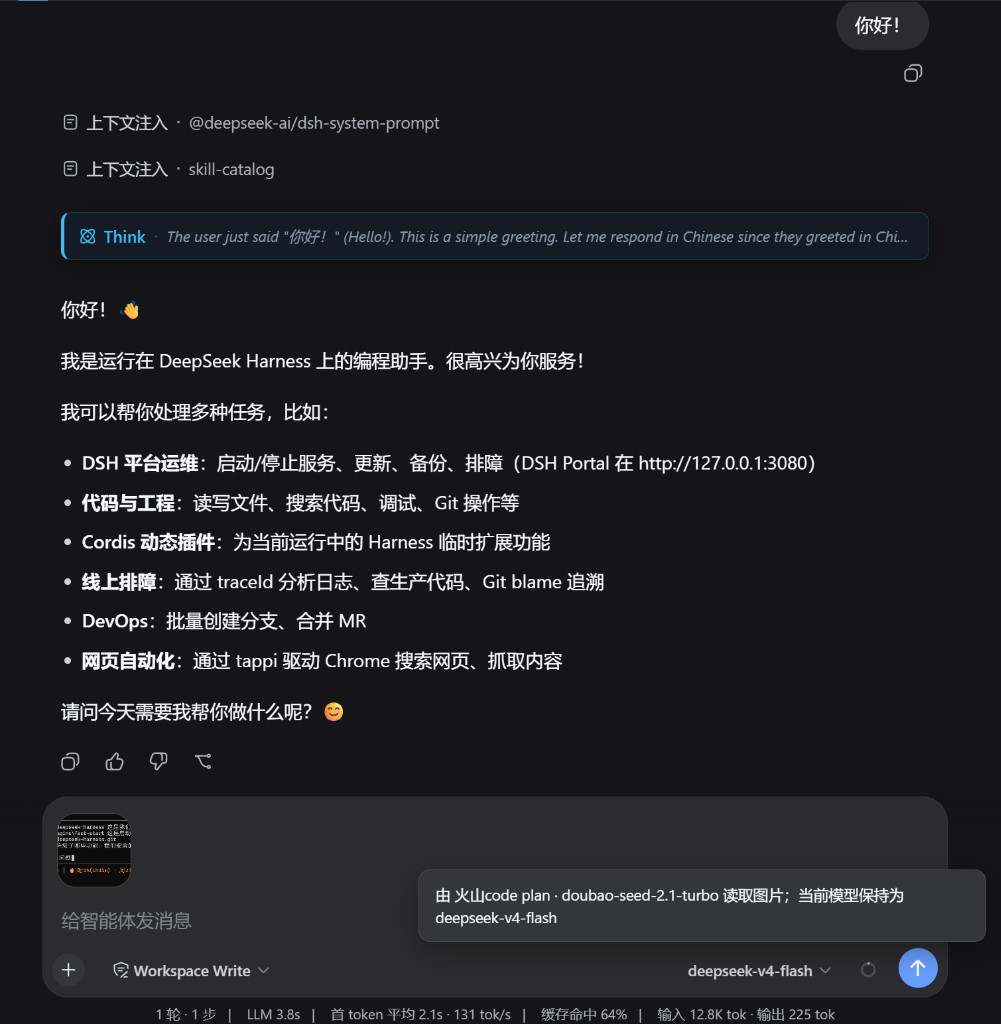
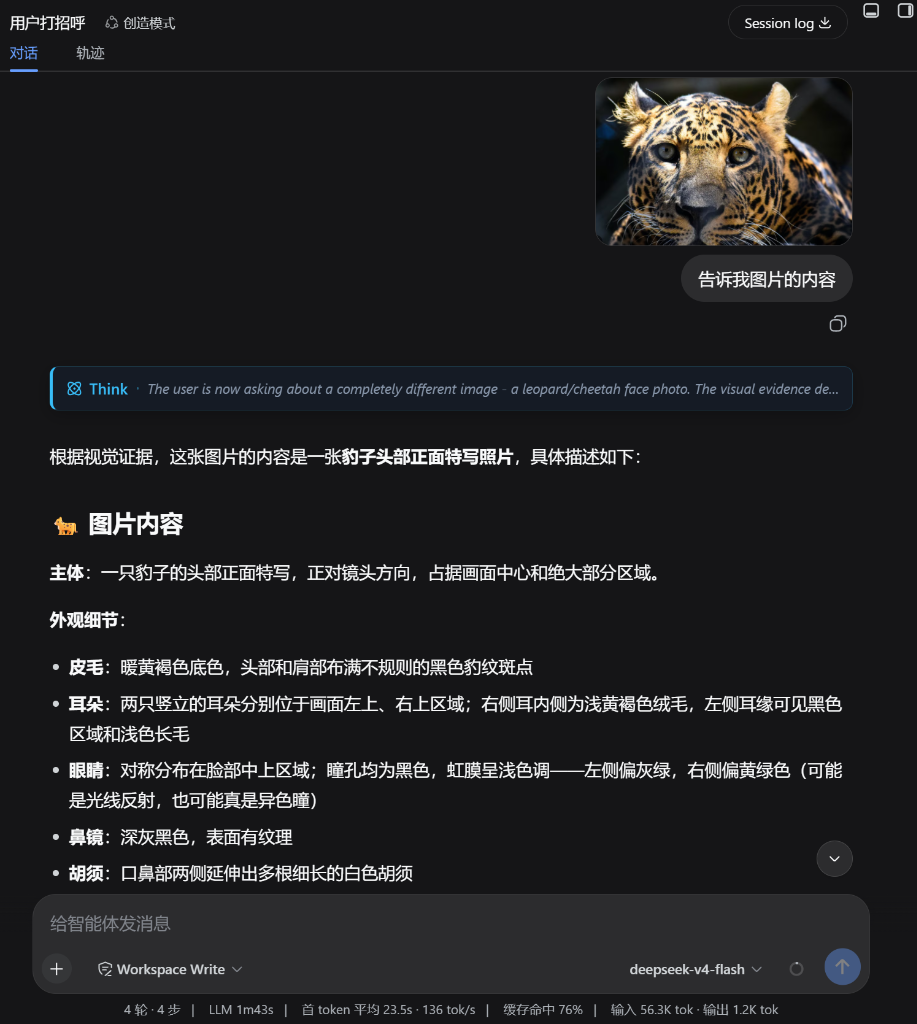
docs: update showcase screenshots with real chat recognition and 1-click visual management panel

diff --git a/README.zh-CN.md b/README.zh-CN.md
@@ -130,26 +130,26 @@ llm-pi-ai:
 
 ---
 
-### 步骤 3：配置视觉映射（开箱即用可视化助手）
+### 步骤 3：配置视觉映射（开箱即用可视化管理）
 
 打开 DSH 界面中的 **`设置 → 插件 → 视觉映射`**：
 
 <p align="center">
-  <img src="https://raw.githubusercontent.com/sprainJinyu/dsh-vision-link/main/docs/assets/vision-mapping.png" alt="视觉模型映射配置助手" width="88%" style="border-radius: 12px; box-shadow: 0 12px 32px rgba(0,0,0,0.25);" />
+  <img src="https://raw.githubusercontent.com/sprainJinyu/dsh-vision-link/main/docs/assets/vision-mapping.png" alt="视觉模型映射可视化设置面板" width="88%" style="border-radius: 12px; box-shadow: 0 12px 32px rgba(0,0,0,0.25);" />
 </p>
 
-1. 在下拉框中选择你的**纯文本模型**（如 `DeepSeek-V4-Flash`）、配对的**多模态模型**（如 `Qwen-Max`）以及**解读重点**；
-2. 点击 **「复制新映射 YAML」**；
-3. 点击右上角 **「打开配置文件」**，将内容合并到你的 `settings.yaml` 中：
+1. 在下拉框中选择你的**纯文本模型**（如 `DeepSeek-V4-Flash`）、配对的**多模态模型**（如 `火山豆包 / Qwen-Max`）以及**解读重点**；
+2. 点击 **「保存映射」**，配置直接保存并**立即生效，零重启！**
+3. （可选）你也可以随时点击卡片右侧的 **「编辑」** 或 **「删除」** 进行调整；或直接在 `settings.yaml` 中配置：
 
 ```yaml
 vision-link:
   mappings:
-    my-provider/deepseek-v4-flash:
-      provider: my-provider
-      model: qwen3.8-max
-      displayName: My Provider · Qwen 3.8 Max
-      focusPreset: ui    # 👈 选填：ui/ocr/code/chart/auto
+    ark-code-plan/deepseek-v4-flash:
+      provider: ark-code-plan
+      model: doubao-seed-2.1-turbo
+      displayName: 火山code plan · doubao-seed-2.1-turbo
+      focusPreset: auto    # 👈 选填：auto/ui/ocr/code/chart/custom
 ```
 
 > [!TIP]
@@ -162,7 +162,7 @@ vision-link:
 在聊天界面中选中纯文本模型（如 `DeepSeek-V4-Flash`），**直接向对话框粘贴 (Ctrl+V) 或拖入图片**：
 
 * 🖼 图片缩略图完整保留在输入框中；
-* 💬 页面提示 `由 Qwen 3.8 Max 读取图片；当前模型保持为 DeepSeek-V4-Flash`；
+* 💬 页面提示 `由 火山code plan · doubao-seed-2.1-turbo 读取图片；当前模型保持为 deepseek-v4-flash`；
 * 🎯 提问发送后，原 DeepSeek 模型基于结构化视觉证据完成深度推理与解答！
 
 ---

diff --git a/README.md b/README.md
@@ -129,26 +129,26 @@ llm-pi-ai:
 
 ---
 
-### Step 3: Configure Vision Mapping (Built-in Visual Assistant)
+### Step 3: Configure Vision Mapping (Built-in Visual Management)
 
 Navigate to **`Settings → Plugins → Vision Mapping`** in DSH:
 
 <p align="center">
-  <img src="https://raw.githubusercontent.com/sprainJinyu/dsh-vision-link/main/docs/assets/vision-mapping.png" alt="Vision model mapping assistant" width="88%" style="border-radius: 12px; box-shadow: 0 12px 32px rgba(0,0,0,0.25);" />
+  <img src="https://raw.githubusercontent.com/sprainJinyu/dsh-vision-link/main/docs/assets/vision-mapping.png" alt="Vision model mapping visual settings panel" width="88%" style="border-radius: 12px; box-shadow: 0 12px 32px rgba(0,0,0,0.25);" />
 </p>
 
-1. Select your **Text Model** (e.g. `DeepSeek-V4-Flash`), paired **Vision Model** (e.g. `Qwen-Max`), and **Focus Preset**;
-2. Click **"Copy new mapping YAML"**;
-3. Click **"Open configuration file"** in the top-right corner and merge the snippet into `settings.yaml`:
+1. Select your **Text Model** (e.g. `DeepSeek-V4-Flash`), paired **Vision Model** (e.g. `Doubao / Qwen-Max`), and **Focus Preset**;
+2. Click **"Save Mapping"**, and changes take effect **immediately with zero restart!**
+3. *(Optional)* You can click **"Edit"** or **"Delete"** anytime, or configure directly in `settings.yaml`:
 
 ```yaml
 vision-link:
   mappings:
-    my-provider/deepseek-v4-flash:
-      provider: my-provider
-      model: qwen3.8-max
-      displayName: My Provider · Qwen 3.8 Max
-      focusPreset: ui    # 👈 Optional: ui/ocr/code/chart/auto
+    ark-code-plan/deepseek-v4-flash:
+      provider: ark-code-plan
+      model: doubao-seed-2.1-turbo
+      displayName: 火山code plan · doubao-seed-2.1-turbo
+      focusPreset: auto    # 👈 Optional: auto/ui/ocr/code/chart/custom
 ```
 
 > [!TIP]
@@ -161,7 +161,7 @@ vision-link:
 Keep your preferred text model (e.g. `DeepSeek-V4-Flash`) selected, and **paste (Ctrl+V) or drop an image directly into the composer**:
 
 * 🖼 Image thumbnail is preserved in the composer;
-* 💬 Notification indicates `Read by Qwen 3.8 Max; current model remains DeepSeek-V4-Flash`;
+* 💬 Notification indicates `Read by 火山code plan · doubao-seed-2.1-turbo; current model remains deepseek-v4-flash`;
 * 🎯 Submit your prompt, and the original DeepSeek model provides deep, evidence-grounded answers!
 
 ---
